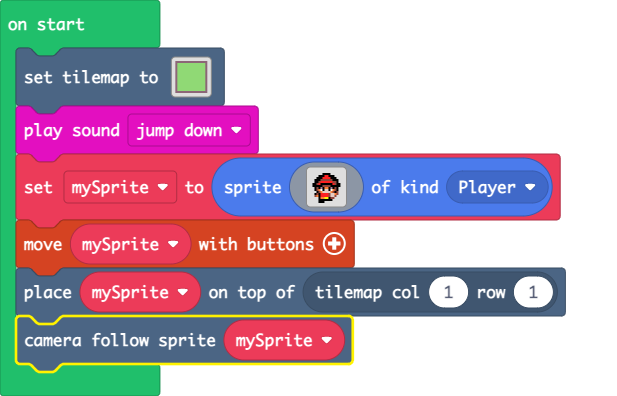
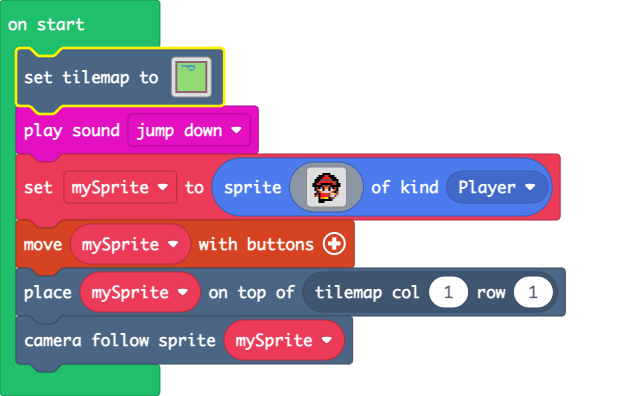
changed tile map

Changed region(s): [[0.0, 0.7879, 0.5851, 0.9697], [0.0, 0.0909, 0.3695, 0.303]]

diff --git a/main.ts b/main.ts
@@ -1,4 +1,4 @@
-tiles.setTilemap(tiles.createTilemap(hex`1000100002020202020202020202020202020202020101010101010101010101010101020201010101010101010101010101010202010101010101010101010101010102020101010101010101010101010101020201010101010101010101010101010202010101010101010101010101010102020101010101010101010101010101020201010101010101010101010101010202010101010101010101010101010102020101010101010101010101010101020201010101010101010101010101010202010101010101010101010101010102020101010101010101010101010101020201010101010101010101010101010202020202020202020202020202020202`, img`
+tiles.setTilemap(tiles.createTilemap(hex`1000100002020202020202020202020202020202020101010101010101010101010101020201010303030303030301010101010202010101010103010103010101010102020101010101010303010101010101020201010101010101010101010101010202010101010101010101010101010102020101010101010101010101010101020201010101010101010101010101010202010101010101010101010101010102020101010101010101010101010101020201010101010101010101010101010202010101010101010101010101010102020101010101010101010101010101020201010101010101010101010101010202020202020202020202020202020202`, img`
     . . . . . . . . . . . . . . . . 
     . . . . . . . . . . . . . . . . 
     . . . . . . . . . . . . . . . . 
@@ -15,7 +15,7 @@ tiles.setTilemap(tiles.createTilemap(hex`100010000202020202020202020202020202020
     . . . . . . . . . . . . . . . . 
     . . . . . . . . . . . . . . . . 
     . . . . . . . . . . . . . . . . 
-    `, [myTiles.transparency16,sprites.castle.tileGrass2,sprites.builtin.forestTiles25], TileScale.Sixteen))
+    `, [myTiles.transparency16,sprites.castle.tileGrass2,sprites.builtin.forestTiles25,sprites.castle.tileDarkGrass2], TileScale.Sixteen))
 music.jumpDown.play()
 let mySprite = sprites.create(img`
     . . . . . . . . . . . . . . . . 
